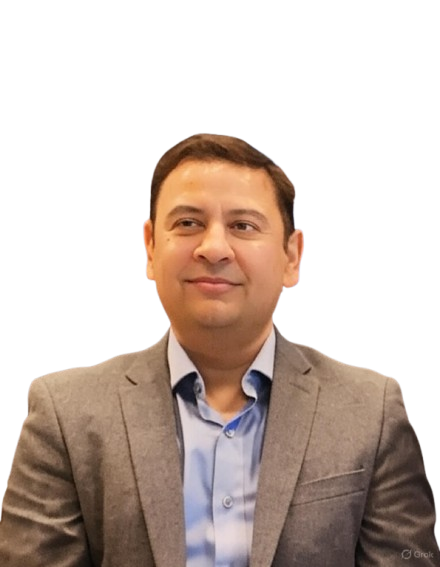
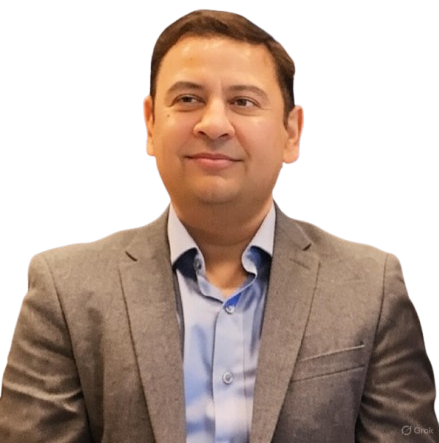
Remove Uzma topic; crop photos so subjects align consistently

diff --git a/components/sections/Speakers.tsx b/components/sections/Speakers.tsx
@@ -53,8 +53,6 @@ const panelists: Speaker[] = [
     name: "Uzma Bibi",
     photo: "/panelists/uzma-bibi.png",
     label: "panelist",
-    topic:
-      "DevOps & Platform Engineer | Google Innovator | AWS Certified Solutions Architect | Kubernetes & GitOps Specialist",
     bio: [
       "Uzma Bibi is a DevOps and Platform Engineer specializing in designing, building, and managing resilient, scalable, and secure cloud infrastructure. With expertise across AWS, Azure, and Google Cloud Platform (GCP), she focuses on transforming complex infrastructure into reliable, automated, and manageable systems.",
       "Her technical expertise spans Kubernetes, Docker, Terraform, CloudFormation, Ansible, and GitOps, alongside building CI/CD pipelines using Jenkins, GitHub Actions, GitLab CI/CD, and ArgoCD. She also works with monitoring and observability tools such as Prometheus, Grafana, Datadog, and ELK Stack to improve infrastructure reliability and operational visibility.",
